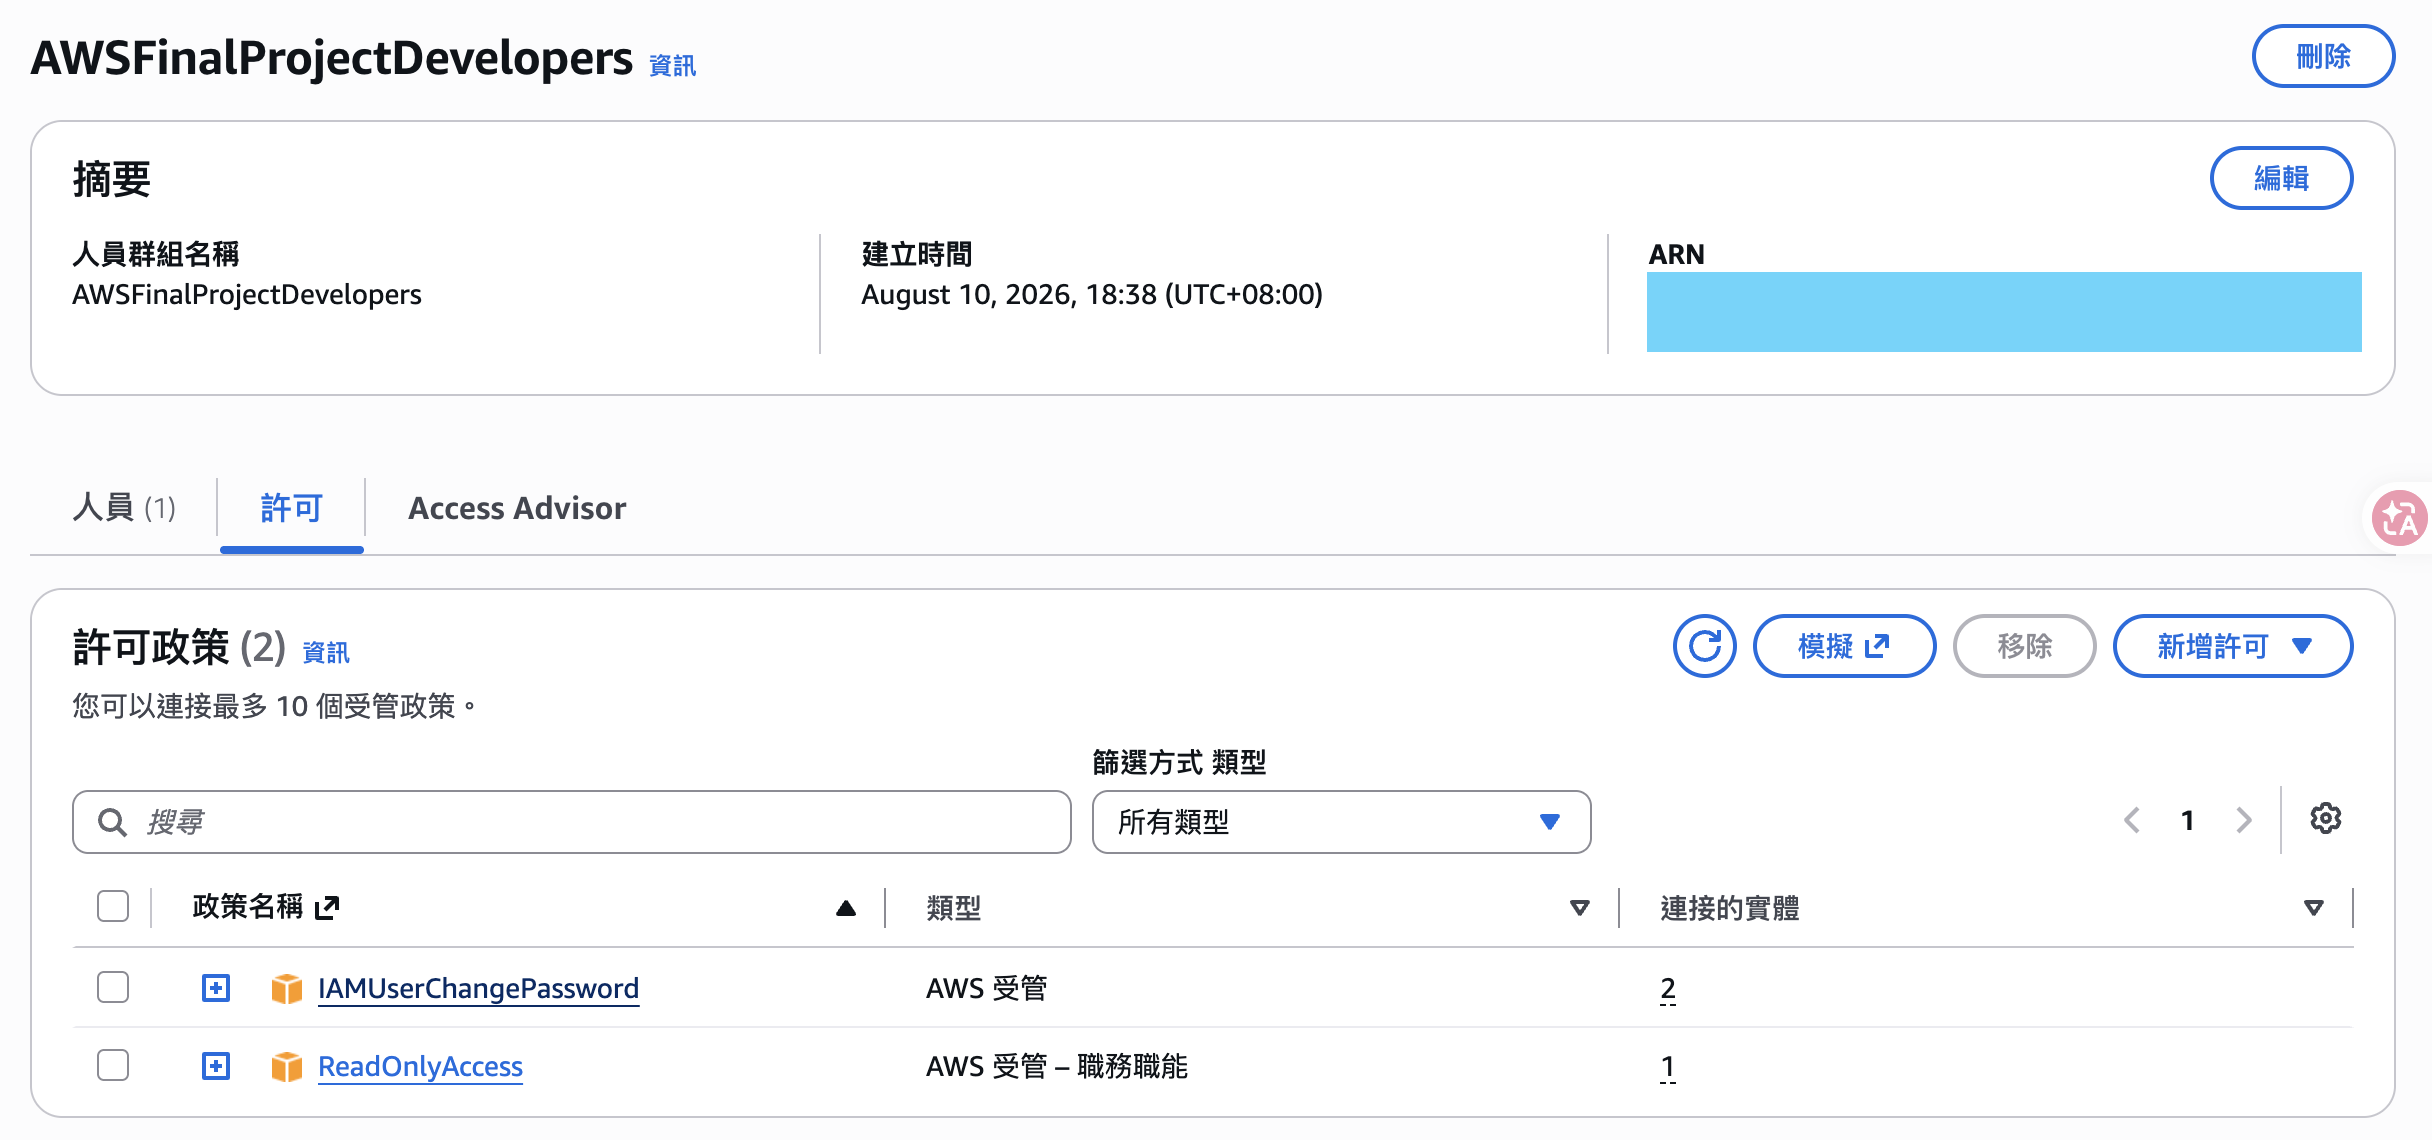
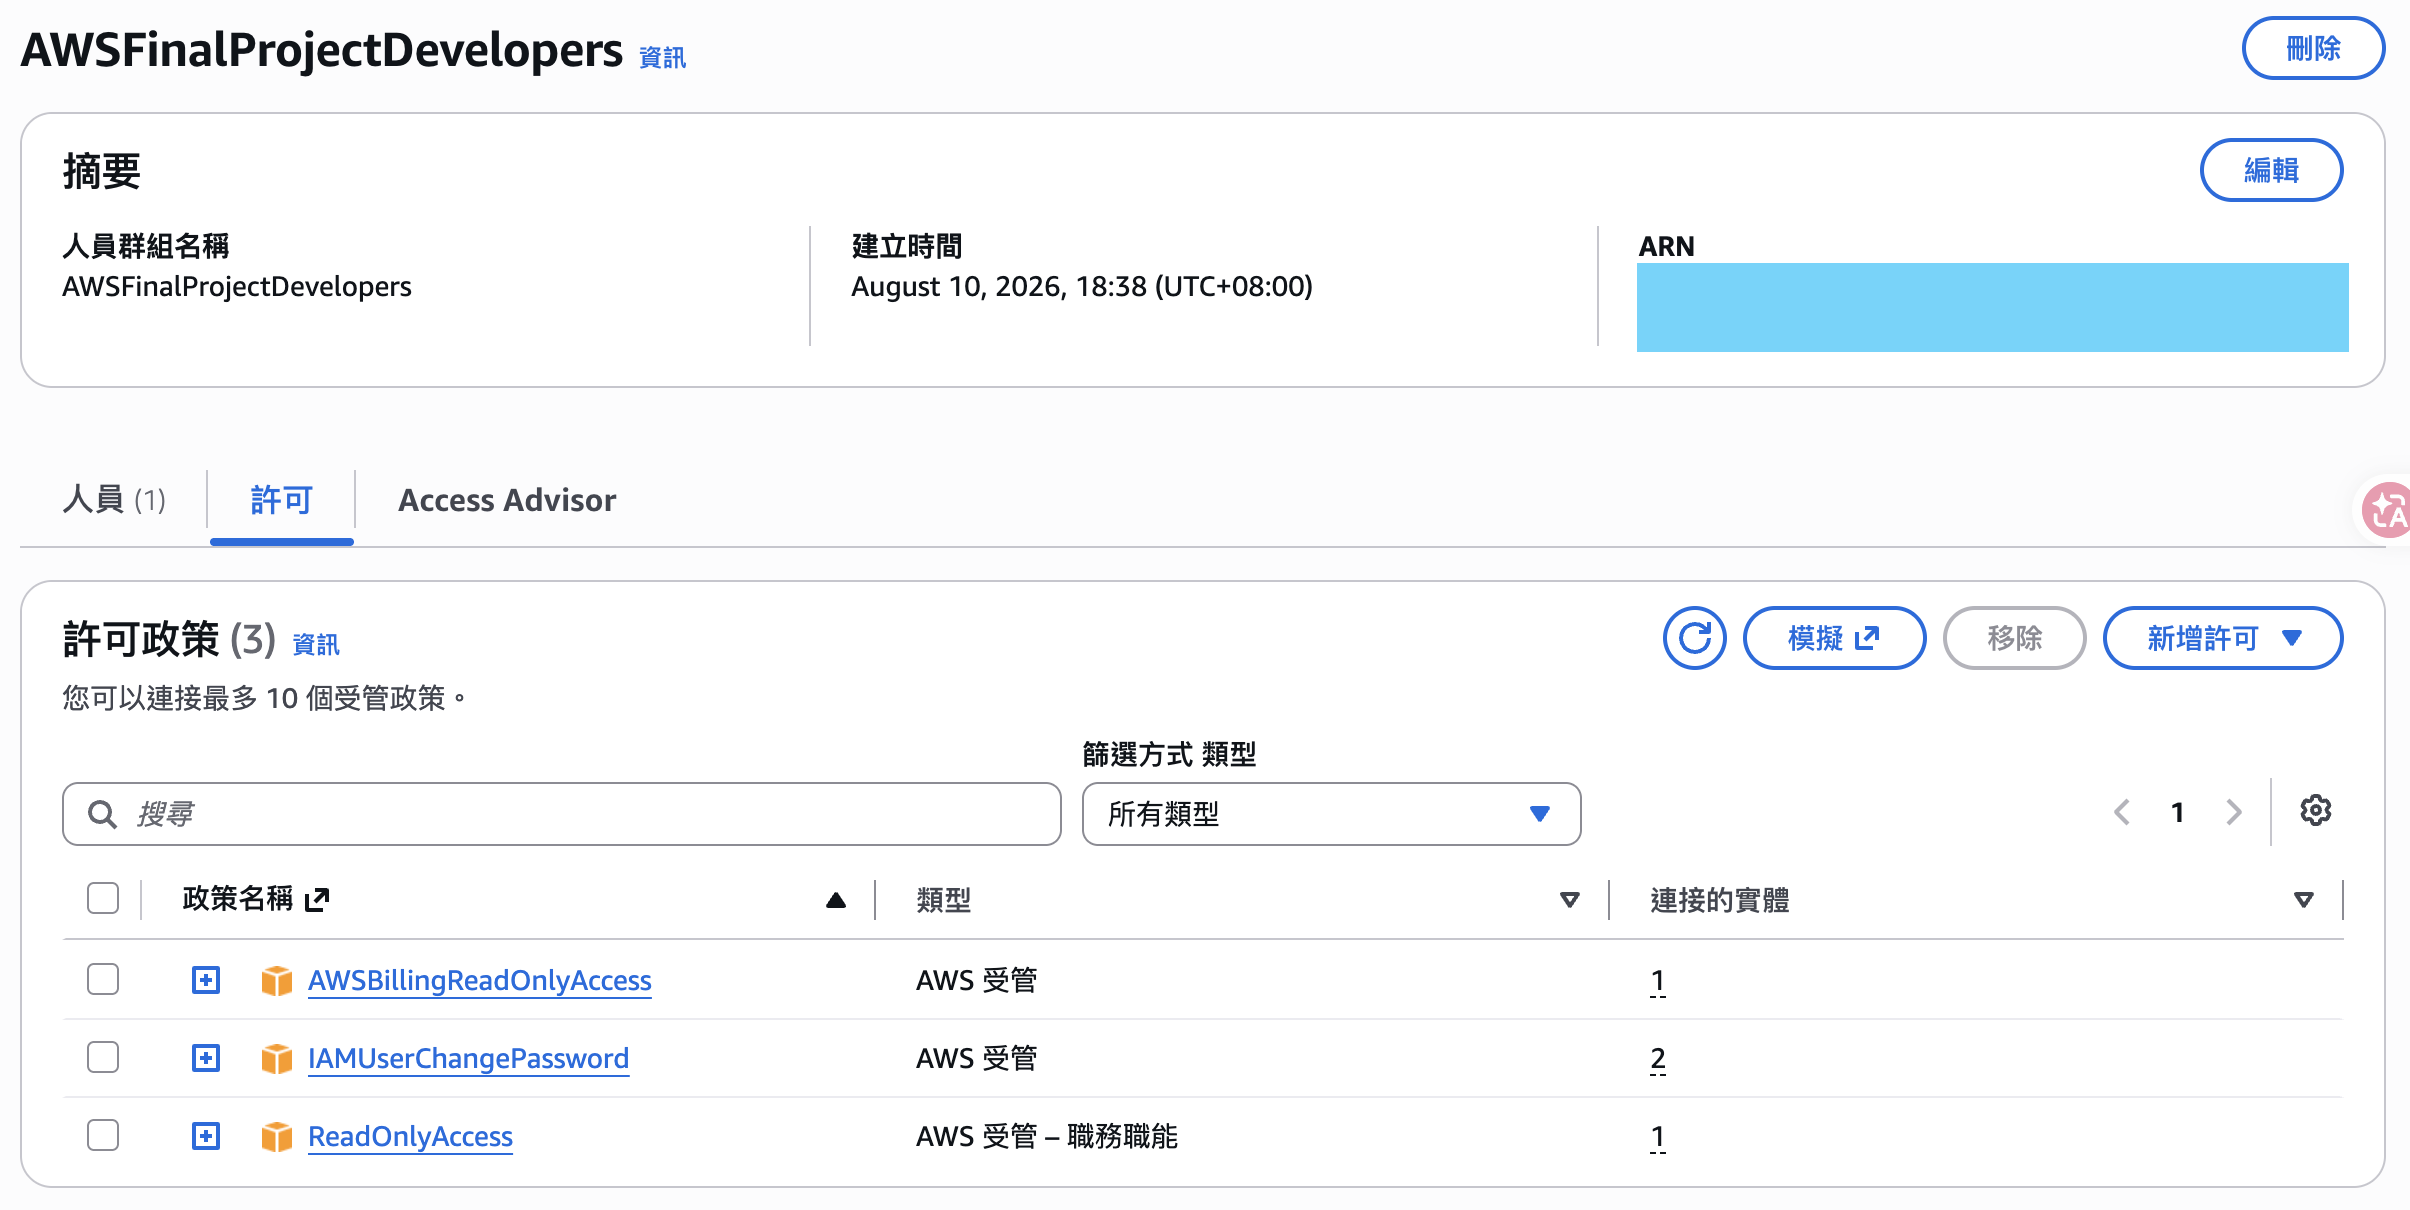
docs: preserve updated billing policy evidence

diff --git a/docs/deployment-log.md b/docs/deployment-log.md
@@ -56,8 +56,8 @@
 | 2026-08-10 | PostgreSQL restart persistence | 建立 ADR-0003、migration、PostgreSQL adapter、Memory／PostgreSQL 共用 contract 與 `DATABASE_URL` composition；修正 Demo room 重啟唯一鍵衝突 | Backend `56 passed`、Frontend `58 passed`；兩個 FastAPI application instance 還原 room 與 session；遺失 story entries mutation 正確失敗；臨時 DB 容器已移除；未執行 AWS 寫入 | [TDD 驗證](evidence/2026-08-10-postgres-persistence/tdd-validation.md) |
 | 2026-08-10 | LLM recovery 與 OS process restart | 建立 retryable failure taxonomy、自動／手動 retry、`RESOLUTION_FAILED` canonical-state 保護、host-only deterministic fallback API／UI；實際啟停兩個 Uvicorn processes | Backend `66 passed`、Frontend `60 passed`；attempt-limit mutation 正確失敗；完整 room 與 session 跨 OS process restart；臨時 DB 已移除；未呼叫真實 LLM／AWS | [TDD／restart 驗證](evidence/2026-08-10-llm-recovery/tdd-validation.md) |
 | 2026-08-10 | 新 AWS 帳號安全基線 | 在重新申請的 Free plan 帳號驗證每月 `US$1.00` Budget、Root MFA、Root Access Key 0、Free plan 與當月預估 `USD 0.00` | 去識別化 Console 截圖；未建立任何專題 workload | [新帳號基線](evidence/2026-08-10-new-account-baseline/validation.md) |
-| 2026-08-10 | 日常人員 IAM | 建立 Console-only IAM user `ming-dev` 與 `AWSFinalProjectDevelopers` group；啟用 MFA，Access／API／SSH keys 均為 0 | 群組有 1 位成員；連接 `ReadOnlyAccess`、`IAMUserChangePassword`；未授予 `AdministratorAccess` 或 `PowerUserAccess` | [新帳號基線](evidence/2026-08-10-new-account-baseline/validation.md) |
-| 2026-08-10 | Billing 委派唯讀 | Root 啟用 IAM user／role Billing access；`ming-dev` 可查看當月帳單與 Free plan 狀態 | 2026 年 8 月預估總計 `USD 0.00`；有效權限已證明，實際 policy 與附掛位置仍待唯讀 IAM 盤點確認 | [帳單證據](screenshots/phase0-ming-dev-billing-zero.png) |
+| 2026-08-10 | 日常人員 IAM | 建立 Console-only IAM user `ming-dev` 與 `AWSFinalProjectDevelopers` group；啟用 MFA，Access／API／SSH keys 均為 0 | 群組有 1 位成員；連接 `ReadOnlyAccess`、`IAMUserChangePassword`、`AWSBillingReadOnlyAccess`；未授予 `AdministratorAccess` 或 `PowerUserAccess` | [新帳號基線](evidence/2026-08-10-new-account-baseline/validation.md) |
+| 2026-08-10 | Billing 委派唯讀 | Root 啟用 IAM user／role Billing access；`ming-dev` 可查看當月帳單與 Free plan 狀態 | 群組已連接 `AWSBillingReadOnlyAccess`；2026 年 8 月預估總計 `USD 0.00` | [群組政策](screenshots/phase0-ming-dev-group-policies.png)／[帳單證據](screenshots/phase0-ming-dev-billing-zero.png) |
 | 2026-08-10 | Polling 離線／reconnect UX | 暫時性 network／`5xx` 保留 canonical 畫面並採 3／5／10 秒 bounded backoff；恢復後回 3 秒；`401/403` 停止，`409` reload | Red `4 passed, 5 failed`；Green／還原 mutation 後 Frontend `65 passed`、Backend `59 passed, 7 skipped`；未執行 AWS 寫入 | [TDD 驗證](evidence/2026-08-10-polling-offline-reconnect/tdd-validation.md) |
 
 ## AWS Budget Alarm
@@ -76,8 +76,7 @@
 - Billing Console 顯示 Free plan；當月預估 `USD 0.00`，每月 `US$1.00` Budget 正常。
 - Root 與 `ming-dev` 均已啟用 MFA；Root 與 `ming-dev` 沒有長期 Access Key。
 - `ming-dev` 是 Console-only 日常人員身分，位於 `AWSFinalProjectDevelopers`。
-- 群組目前只有 `ReadOnlyAccess`、`IAMUserChangePassword`；尚未授予資源寫入權限。
-- `ming-dev` 已能唯讀帳單，但現有截圖未證明實際 policy 與附掛位置；下次 AWS 唯讀盤點必須補驗證。
+- 群組目前只有 `ReadOnlyAccess`、`IAMUserChangePassword`、`AWSBillingReadOnlyAccess`；尚未授予資源寫入權限。
 - 尚未建立 `AWSCourseAccountProtectionDeny`，尚未授予 `PowerUserAccess`；不得為了課程操作改用 Root 建立一般資源。
 - 本日未建立專題 workload，未驗證 Credits 精確餘額、Organization 缺席與新帳號 Region 現況。
 

diff --git a/docs/evidence/2026-08-10-new-account-baseline/validation.md b/docs/evidence/2026-08-10-new-account-baseline/validation.md
@@ -14,14 +14,13 @@
 | Root 安全 | Root MFA 已啟用，Root 沒有作用中的 Access Key | [`phase0-new-account-root-mfa.png`](../../screenshots/phase0-new-account-root-mfa.png) |
 | 日常人員身分 | IAM user `ming-dev` 已啟用 Console access 與 MFA | [`phase0-new-account-root-and-iam-mfa.png`](../../screenshots/phase0-new-account-root-and-iam-mfa.png) |
 | 長期憑證 | `ming-dev` Access Key、API Key 與 CodeCommit SSH key 均為 `0` | [`phase0-ming-dev-zero-keys.png`](../../screenshots/phase0-ming-dev-zero-keys.png) |
-| 群組與初始權限 | `AWSFinalProjectDevelopers` 有 1 位成員；連接 `ReadOnlyAccess`、`IAMUserChangePassword` | [`phase0-ming-dev-group-policies.png`](../../screenshots/phase0-ming-dev-group-policies.png) |
-| Billing 有效權限 | `ming-dev` 可開啟 2026 年 8 月帳單；現有截圖未證明實際 policy 與附掛位置 | [`phase0-ming-dev-billing-zero.png`](../../screenshots/phase0-ming-dev-billing-zero.png) |
+| 群組與初始權限 | `AWSFinalProjectDevelopers` 有 1 位成員；連接 `ReadOnlyAccess`、`IAMUserChangePassword`、`AWSBillingReadOnlyAccess` | [`phase0-ming-dev-group-policies.png`](../../screenshots/phase0-ming-dev-group-policies.png) |
+| Billing 有效權限 | `ming-dev` 可開啟 2026 年 8 月帳單；Billing 唯讀由群組的 `AWSBillingReadOnlyAccess` 提供 | [`phase0-ming-dev-group-policies.png`](../../screenshots/phase0-ming-dev-group-policies.png)／[`phase0-ming-dev-billing-zero.png`](../../screenshots/phase0-ming-dev-billing-zero.png) |
 
 ## 尚未完成／不可誤判
 
 - 尚未驗證 Credits 精確餘額與到期日。
 - 尚未保存新帳號未建立 AWS Organization 的證據；在此之前不得啟用 IAM Identity Center organization instance、Control Tower 或 Organizations。
-- 尚未以 IAM 唯讀盤點確認 `ming-dev` 的 Billing policy 名稱與附掛位置；不得只憑可開啟帳單畫面宣稱群組已連接 `AWSBillingReadOnlyAccess`。
 - `ming-dev` 尚未取得 `PowerUserAccess`，目前不能建立或修改大部分 AWS 資源。
 - `AWSCourseAccountProtectionDeny` 尚未建立；先前草案中的 `billing:*` 全面拒絕會破壞帳務唯讀，必須改為只拒絕寫入與購買動作，經 IAM policy validation、simulation 與負面測試後才能使用。
 - 本日沒有建立 EC2、RDS、VPC、NAT Gateway、Load Balancer 或其他專題 workload。
@@ -33,6 +32,11 @@
 3. 下次 AWS 工作先以唯讀方式確認 account plan、Credits、Organizations、Region、當月費用與 principal。
 4. 由 Root 短暫建立並連接修正版 `AWSCourseAccountProtectionDeny`，先驗證拒絕 `freetier:UpgradeAccountPlan`、Organizations、Control Tower 與購買／承諾動作。
 5. 防護政策通過正面與負面驗證後，才另行評估 `PowerUserAccess`；不得把政策存在視為完成。
+
+## 證據更正
+
+- `phase0-ming-dev-group-policies.png` 已使用 2026-08-10 20:51 的更新畫面取代同日較早只顯示 2 個 policies 的版本。
+- 更新畫面顯示「許可政策 (3)」並完整列出 `AWSBillingReadOnlyAccess`、`IAMUserChangePassword`、`ReadOnlyAccess`；群組 ARN 已遮蔽。
 
 ## 費用與回復
 

diff --git a/docs/handoffs/CURRENT.md b/docs/handoffs/CURRENT.md
@@ -22,8 +22,8 @@
 - Billing Console 顯示 Free plan；每月 `US$1.00` Budget 正常，2026 年 8 月預估 `USD 0.00`。
 - Root MFA 已啟用且無 Root Access Key；Root 只用於低頻帳號管理，完成後應登出。
 - Console-only IAM user `ming-dev` 已啟用 MFA；Access Key、API Key、CodeCommit SSH key 均為 0。
-- `ming-dev` 位於 `AWSFinalProjectDevelopers`；群組只連接 `ReadOnlyAccess`、`IAMUserChangePassword`。
-- `ming-dev` 已能唯讀帳單，但實際 Billing policy 與附掛位置尚待下次 AWS 唯讀盤點確認。
+- `ming-dev` 位於 `AWSFinalProjectDevelopers`；群組只連接 `ReadOnlyAccess`、`IAMUserChangePassword`、`AWSBillingReadOnlyAccess`。
+- `ming-dev` 已能唯讀帳單；更新後群組截圖已證明 Billing policy 名稱與附掛位置。
 - 尚未授予 `PowerUserAccess` 或 `AdministratorAccess`，尚未建立 `AWSCourseAccountProtectionDeny`。
 - Credits 精確餘額、Organization 缺席、目前 principal／Region 仍須在任何下一次 AWS 寫入前重新確認。
 - 2026-08-07 Organization／Identity Center／Paid plan 紀錄屬舊帳號事故，不得當成新帳號現況。

diff --git a/docs/checkpoints.md b/docs/checkpoints.md
@@ -11,8 +11,7 @@ Demo 與每日進度依本清單逐項驗收。檔案存在不代表完成；必
 - [x] 本專題禁止再建立／加入 AWS Organizations。
 - [x] 未建立長期 Access Key，未授予應用程式 `AdministratorAccess`。
 - [x] 新帳號已建立 Console-only `ming-dev`、啟用 MFA，並確認 Access／API／SSH keys 均為 0。
-- [x] `AWSFinalProjectDevelopers` 已連接 `ReadOnlyAccess` 與 `IAMUserChangePassword`；尚未授予 `PowerUserAccess`。
-- [ ] `ming-dev` 的 Billing 唯讀權限附掛位置與實際 policy 已由唯讀 IAM 盤點確認。
+- [x] `AWSFinalProjectDevelopers` 已連接 `ReadOnlyAccess`、`IAMUserChangePassword` 與 `AWSBillingReadOnlyAccess`；尚未授予 `PowerUserAccess`。
 - [ ] 最終部署帳號、account plan、credits、Budget、Region 與 principal 已確認。
 - [ ] 所有資源已有估價、owner、最大預算、停止與刪除方式。
 
